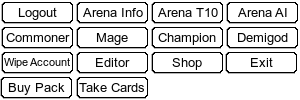
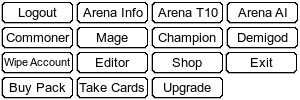
Updated Shop UI + New Image Loading Method
The shop UI has been updated:
	-New background
	-Buttons match the new main menu UI
	-Booster images updated
	-Font now matches the main menu
	-'g' replaced by the gold icon
	-Popup box shows large pictures of cards when a pack is bought

New Image Loading Method
	-Transferred most images to sprite sheets
	-Images (other than null.png) are now loaded in by AssetLoaders
	-Moved all images from root into the assets folder
	-The last argument of makeButton now takes a texture, loaded by
	the asset loaders or otherwise

Changed region(s): [[0.48, 0.75, 0.75, 0.99], [0.0, 0.78, 0.27, 0.99]]

diff --git a/ui.main.js b/ui.main.js
@@ -800,6 +800,15 @@ function mkAi(level){
 // Asset Loaders
 var nopic = PIXI.Texture.fromImage("assets/null.png")
 
+var backgrounds = ["assets/bg_lobby.png", "assets/bg_shop.png"];
+var bgLoader = new PIXI.AssetLoader(backgrounds);
+bgLoader.onComplete = function() {
+	var tmp = [];
+	for(var i = 0; i < 2; i++) tmp.push(PIXI.Texture.fromImage(backgrounds[i]));
+	backgrounds = tmp;
+}
+bgLoader.load();
+
 var eicons = [];
 var eleLoader = new PIXI.AssetLoader(["assets/esheet.png"]);
 eleLoader.onComplete = function() {
@@ -840,17 +849,26 @@ var boosters = [];
 var boosterLoader = new PIXI.AssetLoader(["assets/boosters.png"]);
 boosterLoader.onComplete = function() {
 	var tex = PIXI.Texture.fromImage("assets/boosters.png");
-	for (var i = 0; i < 4; i++) boosters.push(new PIXI.Texture(tex, new PIXI.Rectangle(i*100, 0, 100, 150)));
+	for (var i = 0; i < 2; i++) 
+		for (var j = 0; j < 4; j++) 
+			boosters.push(new PIXI.Texture(tex, new PIXI.Rectangle(j*100, i*150, 100, 150)));
 }
 boosterLoader.load();
-	
+
+var popups = [];
+var popupLoader = new PIXI.AssetLoader(["assets/popup_booster.png"]);
+popupLoader.onComplete = function() {
+	for(var i = 0; i < 1; i++) popups.push(PIXI.Texture.fromImage("assets/popup_booster.png"));
+}
+popupLoader.load();
+
 function makeButton(x, y, w, h, i) {
 	var b = new PIXI.Sprite(i);
 	b.position.set(x, y);
 	b.interactive = true;
 	b.hitArea = new PIXI.Rectangle(0, 0, w, h);
 	b.buttonMode = true;
-
+	
 	return b;
 }
 
@@ -871,10 +889,10 @@ function toggleB() {
 }
 	
 function startMenu() {	
-	menuui = new PIXI.Stage(0x336699, true);
+	menuui = new PIXI.Stage(0x000000, true);
 		
 	//lobby background
-	var bglobby = PIXI.Sprite.fromImage("assets/bg_lobby.png");
+	var bglobby = new PIXI.Sprite(backgrounds[0]);
 	bglobby.interactive = true;
 	bglobby.hitArea = new PIXI.Rectangle(0, 0, 900, 670);
 	bglobby.mouseover = function() { 
@@ -937,7 +955,6 @@ function startMenu() {
 	}
 	menuui.addChild(bai2);
 
-	
 	//ai3 button
 	var bai3 = makeButton(350, 100, 75, 25, buttons[7]);
 	bai3.click = mkDemigod;
@@ -1010,7 +1027,6 @@ function startMenu() {
 	menuui.addChild(bedit);
 
 	var bshop = makeButton(150, 300, 75, 25, buttons[10]);
-
 	bshop.click = startStore;
 	bshop.mouseover = function () {
 	    tinfo.setText("Here you can buy booster packs which contains ten cards from the elements you choose.");
@@ -1019,7 +1035,7 @@ function startMenu() {
 	menuui.addChild(bshop);
 
     //upgrade button
-	var bupgrade = makeButtonSprite(250, 300, 75, 18, "assets/bupgrade.png");
+	var bupgrade = makeButton(250, 300, 75, 18, buttons[14]);
 	bupgrade.click = upgradestore;
 	bupgrade.mouseover = function () {
 	    tinfo.setText("Here you can upgrade cards as well as buy upgraded Pillars");
@@ -1056,16 +1072,14 @@ function startMenu() {
 	}
 	menuui.addChild(bdelete);
 	
-	toggleB(baia, bshop, bupgrade, binfoa, btopa, blogout, bdelete);
+	if (!user) toggleB(baia, bshop, bupgrade, binfoa, btopa, blogout, bdelete);
 	
 	//only display if user is logged in
-	if (user){	
-		toggleB(baia, bshop, bupgrade, binfoa, btopa, blogout, bdelete);
-		
-		tgold.position.set(770, 100);
+	if (user){		
+		tgold.position.set(770, 101);
 		igold.visible = true;	
 		
-	//	if (user.oracle){
+	if (user.oracle){
 			// todo user.oracle should be a card, not true. The card is the card that the server itself added. This'll only show what was added
 			delete user.oracle;
 			var card = PlayerRng.randomcard(false,
@@ -1076,7 +1090,7 @@ function startMenu() {
 			var oracle = new PIXI.Sprite(nopic);
 			oracle.position.set(450, 100);
 			menuui.addChild(oracle);
-		//}
+		}
 	}
 		
 	function logout(){
@@ -1085,7 +1099,7 @@ function startMenu() {
 		toggleB(baia, bshop, bupgrade, binfoa, btopa, blogout, bdelete);
 		
 		tgold.setText("Sandbox");
-		tgold.position.set(755, 100);
+		tgold.position.set(755, 101);
 		igold.visible = false;
 		
 		if (oracle){
@@ -1107,6 +1121,7 @@ function editorCardCmp(x,y){
 	var cardx = CardCodes[x], cardy = CardCodes[y];
 	return cardx.upped - cardy.upped || cardx.element - cardy.element || cardx.cost-cardy.cost || (x>y)-(x<y);
 }
+
 function upgradestore() {
     function isFreeCard(card) {
         return card.type == PillarEnum && !card.upped && !card.rarity;
@@ -1152,12 +1167,12 @@ function upgradestore() {
     var goldcount = new PIXI.Text(user.gold + "g", { font: "bold 16px Dosis" });
     goldcount.position.set(30, 100);
     upgradeui.addChild(goldcount);
-    var bupgrade = makeButton(150, 100, 75, 18, "Upgrade");
+    var bupgrade = makeButton(150, 100, 75, 18, buttons[14]);
     bupgrade.click = function () {
         upgradeCard(CardCodes[selectedCard]);
     };
     upgradeui.addChild(bupgrade);
-    var bexit = makeButton(50, 50, 75, 18, "Exit");
+    var bexit = makeButton(50, 50, 75, 18, buttons[11]);
     bexit.click = function () {
         startMenu();
     };
@@ -1253,6 +1268,7 @@ function upgradestore() {
     mainStage = upgradeui;
     refreshRenderer();
 }
+
 function startStore() {
 	var cardartcode;
 	var packtype = 0;
@@ -1262,32 +1278,31 @@ function startStore() {
 	var newCards = [];
 	var newCardsArt = [];
 	
-	var storeui = new PIXI.Stage(0x336699, true);
+	var storeui = new PIXI.Stage(0x000000, true);
 	
 	//shop background
-	var bgshop = PIXI.Sprite.fromImage("assets/bg_shop.png");
+	var bgshop = new PIXI.Sprite(backgrounds[1]);
 	storeui.addChild(bgshop);
 	
 	//gold text
-	var goldcount = new PIXI.Text(user.gold + "g", {font: "bold 16px Dosis"});
-	goldcount.position.set(750, 100);
-	storeui.addChild(goldcount);
+	var tgold = makeText(770, 101, user.gold, true);
+	storeui.addChild(tgold);
 	
     //info text
-	var tinfo = new PIXI.Text("Select an element", { font: "bold 16px Dosis" });
-	tinfo.position.set(50, 25);
+	var tinfo = makeText(50, 26, "Select which elements you want.", true);
 	storeui.addChild(tinfo);
-	var tinfo2 = new PIXI.Text("Select a pack", { font: "bold 16px Dosis" });
-	tinfo2.position.set(150, 50);
+	
+	var tinfo2 = makeText(50, 51, "Select which type of booster you want.", true);
 	storeui.addChild(tinfo2);
 	
-	//cost text
-	var tcost = new PIXI.Text("", {font: "bold 16px Dosis"});
-	tcost.position.set(50, 50);
-	storeui.addChild(tcost);
-	
+	//gold icon
+	var igold = PIXI.Sprite.fromImage("assets/gold.png");
+	igold.position.set(750, 100);
+	storeui.addChild(igold);
+
 	//get cards button
-	var bget = makeButton(750, 150, 75, 18, buttons[13]);
+	var bget = makeButton(750, 156, 75, 18, buttons[13]);
+	toggleB(bget);
 	bget.click = function() {
 		userEmit("add", {add: etg.encodedeck(newCards)});
 		for (var i = 0; i < 10; i++) {
@@ -1295,39 +1310,44 @@ function startStore() {
 			newCardsArt[i].visible = false;
 		}
 		
+		toggleB(brainbow, bfwea, batge, blddl, bbronze, bsilver, bgold, bplatinum, bget, bbuy);
+		popbooster.visible = false;
 		newCards = [];
-		storeui.removeChild(bget);
-		storeui.addChild(bbuy);
 	}
+	storeui.addChild(bget);
 	
 	//exit button
-	var bexit = makeButton(750, 250, 75, 180, buttons[11]);
+	var bexit = makeButton(750, 246, 75, 18, buttons[11]);
 	bexit.click = function() {
 		if (isEmpty(newCards)) {
 			startMenu();
 		} else {
 			tinfo.setText("Get your cards before leaving!");
+			tinfo2.setText("");
 		}
 	}
 	storeui.addChild(bexit);
 	
 	//buy button
-	var bbuy = makeButton(750, 150, 75, 18, buttons[12]);
+	var bbuy = makeButton(750, 156, 75, 18, buttons[12]);
 	bbuy.click = function() {
 		if (isEmpty(newCards)) {
 			if (user.gold >= cost) {
 				var allowedElements = []
                 if (!packrarity || !packtype) {
-					tinfo.setText("Select a pack first");
-					tcost.setText("");
+					tinfo.setText("Select a pack first!");
+					tinfo2.setText("");
 					return;
 				}
+				
 				if (packtype == 1) allowedElements = [0, 1, 2, 3, 4, 5, 6, 7, 8, 9, 10, 11, 12];
 				else if (packtype == 2) allowedElements = [0, 4, 6, 7, 9];
 				else if (packtype == 3) allowedElements = [0, 1, 3, 10, 12];
 				else if (packtype == 4) allowedElements = [0, 2, 5, 8, 11];
+				
 				user.gold -= cost;
 				userEmit("subgold", { g: cost });
+				
 				for (var i = 0; i < cardamount; i++) {
 				    var rarity = 1;
 				    if (((packrarity == 2 || packrarity == 3) && i >= 3) || packrarity == 4)
@@ -1335,21 +1355,21 @@ function startStore() {
                     if ((packrarity == 3 && i >= 7) || (packrarity == 4 && i >= 3))
                         rarity = 3;
                     if (packrarity == 4 && i >= 5)
-                        rarity = 3;
+                        rarity = 4;
 					newCards.push(PlayerRng.randomcard(false, function (x) { return allowedElements.indexOf(x.element) != -1 && x.type != PillarEnum && x.rarity == rarity }).code);
 					newCardsArt[i].setTexture(getArt(newCards[i]));
 					newCardsArt[i].visible = true;
 				}
 				
-				storeui.removeChild(bbuy);
-				storeui.addChild(bget);
+				toggleB(brainbow, bfwea, batge, blddl, bbronze, bsilver, bgold, bplatinum, bget, bbuy);
+				popbooster.visible = true;
 			} else {
-				tinfo.setText("You can't afford that");
-				tcost.setText("");
+				tinfo.setText("You can't afford that!");
+				tinfo2.setText("");
 			}
 		} else {
-			tinfo.setText("Take your cards before you buy more");
-			tcost.setText("");
+			tinfo.setText("Take your cards before you buy more!");
+			tinfo2.setText("");
 		}
 	}
 	storeui.addChild(bbuy);
@@ -1364,7 +1384,6 @@ function startStore() {
 	
 	//FiWaEaAi pack
 	var bfwea = makeButton(175, 100, 100, 200, boosters[1]);
-	var bfwea = makeButtonSprite(175, 100, 100, 200, "assets/fweabooster.png");
 	bfwea.click = function() {
 		packtype = 2;
 		tinfo.setText("Selected Elements: Fire/Water/Earth/Air");
@@ -1388,78 +1407,67 @@ function startStore() {
 	storeui.addChild(blddl);
 
     // The different pack types
-	var bbronze = makeButtonSprite(50, 310, 100, 200, "assets/bronzebooster.png", "Bronze");
+	var bbronze = makeButton(50, 280, 100, 200, boosters[4]);
 	bbronze.click = function () {
 	    packrarity = 1;
-	    tinfo2.setText("Bronze Pack, contains 9 Commons.");
-	    tcost.setText("Cost 15g");
+	    tinfo2.setText("Bronze Pack: 9x Common");
 	    cardamount = 9;
 	    cost = 15;
 	}
 	storeui.addChild(bbronze);
 
-	var bsilver = makeButtonSprite(175, 310, 100, 200, "assets/silverbooster.png", "Silver");
+	var bsilver = makeButton(175, 280, 100, 200, boosters[5]);
 	bsilver.click = function () {
 	    packrarity = 2;
-	    tinfo2.setText("Silver Pack, contains 3 Commons, 3 Uncommons.");
-	    tcost.setText("Cost 25g");
+	    tinfo2.setText("Silver Pack: 3x Common + 3x Uncommon");
 	    cardamount = 6;
         cost = 25
 	}
 	storeui.addChild(bsilver);
 
-	var bgold = makeButtonSprite(300, 310, 100, 200, "assets/goldbooster.png", "Gold");
+	var bgold = makeButton(300, 280, 100, 200, boosters[6]);
 	bgold.click = function () {
 	    packrarity = 3;
-	    tinfo2.setText("Gold Pack, contains 3 Commons, 4 Uncommons, 1 Rare.");
-	    tcost.setText("Cost 60g");
+	    tinfo2.setText("Gold Pack: 3x Common + 4x Uncommon + 1x Rare");
 	    cardamount = 8;
 	    cost = 60;
 	}
 	storeui.addChild(bgold);
 
-	var bplatinum = makeButtonSprite(425, 310, 100, 200, "assets/platinumbooster.png", "Platinum");
+	var bplatinum = makeButton(425, 280, 100, 200, boosters[7]);
 	bplatinum.click = function () {
 	    packrarity = 4;
-	    tinfo2.setText("Platinum Pack, contains 3 Uncommons, 2 Rares, and 1 Very Rare.");
-	    tcost.setText("Cost 110g");
+	    tinfo2.setText("Platinum Pack: 3x Uncommon + 2x Rare + 1x Very Rare");
 	    cardamount = 6;
 	    cost = 110;
 	}
 	storeui.addChild(bplatinum);
-
+	
+	//booster popup
+	var popbooster = new PIXI.Sprite(popups[0]);
+	popbooster.position.set(43, 93);
+	popbooster.visible = false;
+	storeui.addChild(popbooster);
+	
 	//draw cards that are pulled from a pack
-	for (var i = 0; i < 10; i++) {
-		var cardArt = new PIXI.Sprite(nopic);
-		cardArt.scale = new PIXI.Point(0.6, 0.6)
-		
-		cardArt.position.set(575, 100 + (i*30));
-		(function (_i) {
-			cardArt.mouseover = function () {
-				cardartcode = newCards[_i];
-				console.log(cardartcode);
-			}
-		})(i);
-		cardArt.interactive = true;
-		storeui.addChild(cardArt);
-		newCardsArt.push(cardArt);
+	for (var i = 0; i < 2; i++) {
+		for (var j = 0; j < 5; j++) {
+			var cardArt = new PIXI.Sprite(nopic);
+			cardArt.scale = new PIXI.Point(0.85, 0.85)
+			cardArt.position.set(50 + (j*125), 100 + (i*225));
+			storeui.addChild(cardArt);
+			
+			newCardsArt.push(cardArt);
+		}
 	}
-
-	var cardArt = new PIXI.Sprite(nopic);
-	cardArt.position.set(723, 300);
-	storeui.addChild(cardArt);
 	
 	//update loop
 	animCb = function() {
-		if (cardartcode) {
-			cardArt.setTexture(getArt(cardartcode));
-		}
-		
 		for (var i = 0; i < 10; i++) {
 			if (newCards[i]) newCardsArt[i].setTexture(getArt(newCards[i]));
 		}
 		
-		goldcount.setText(user.gold + "g");
+		tgold.setText(user.gold);
 	}
 
 	mainStage = storeui;
